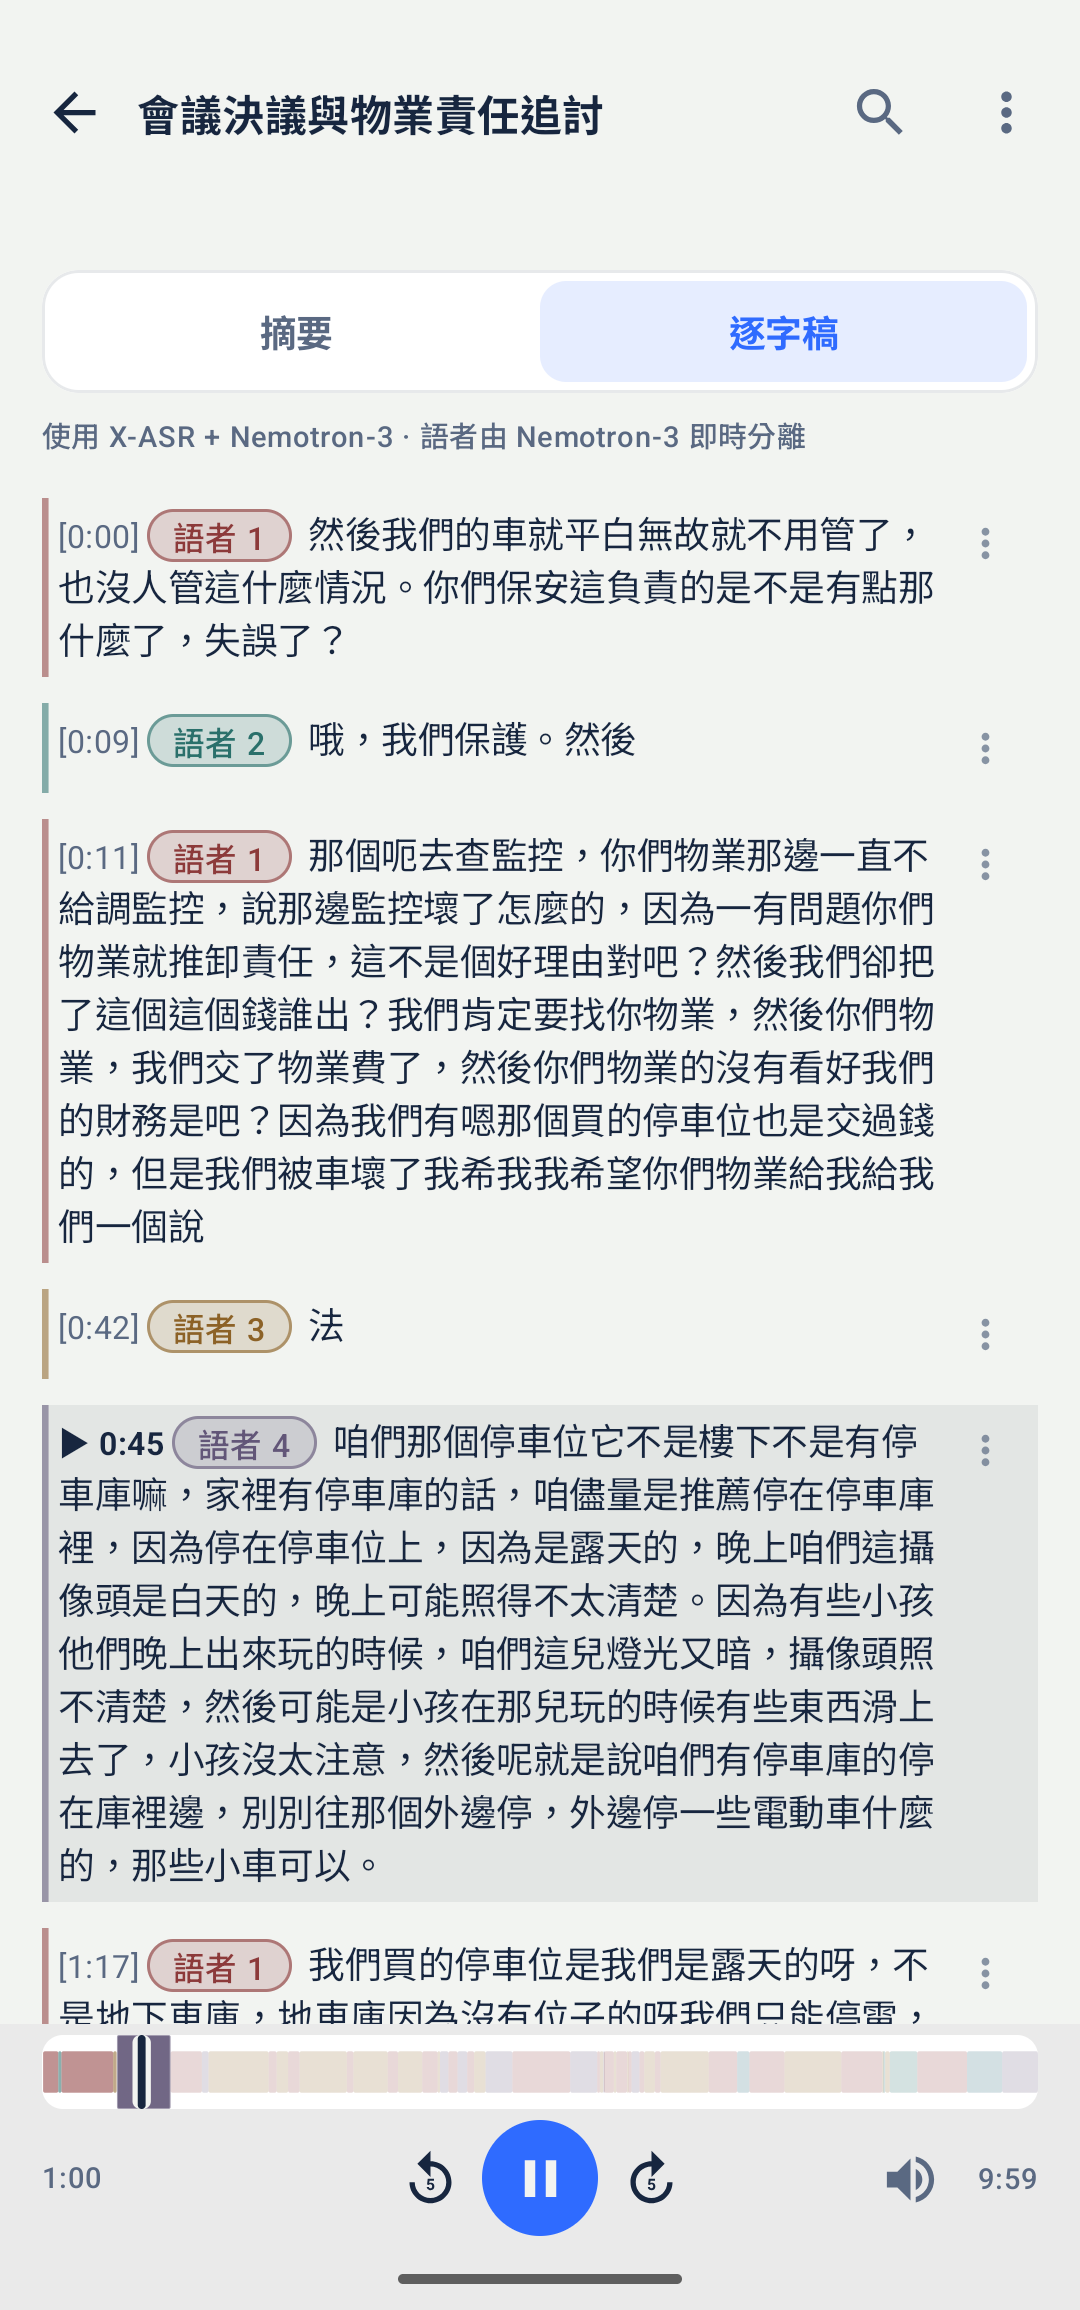
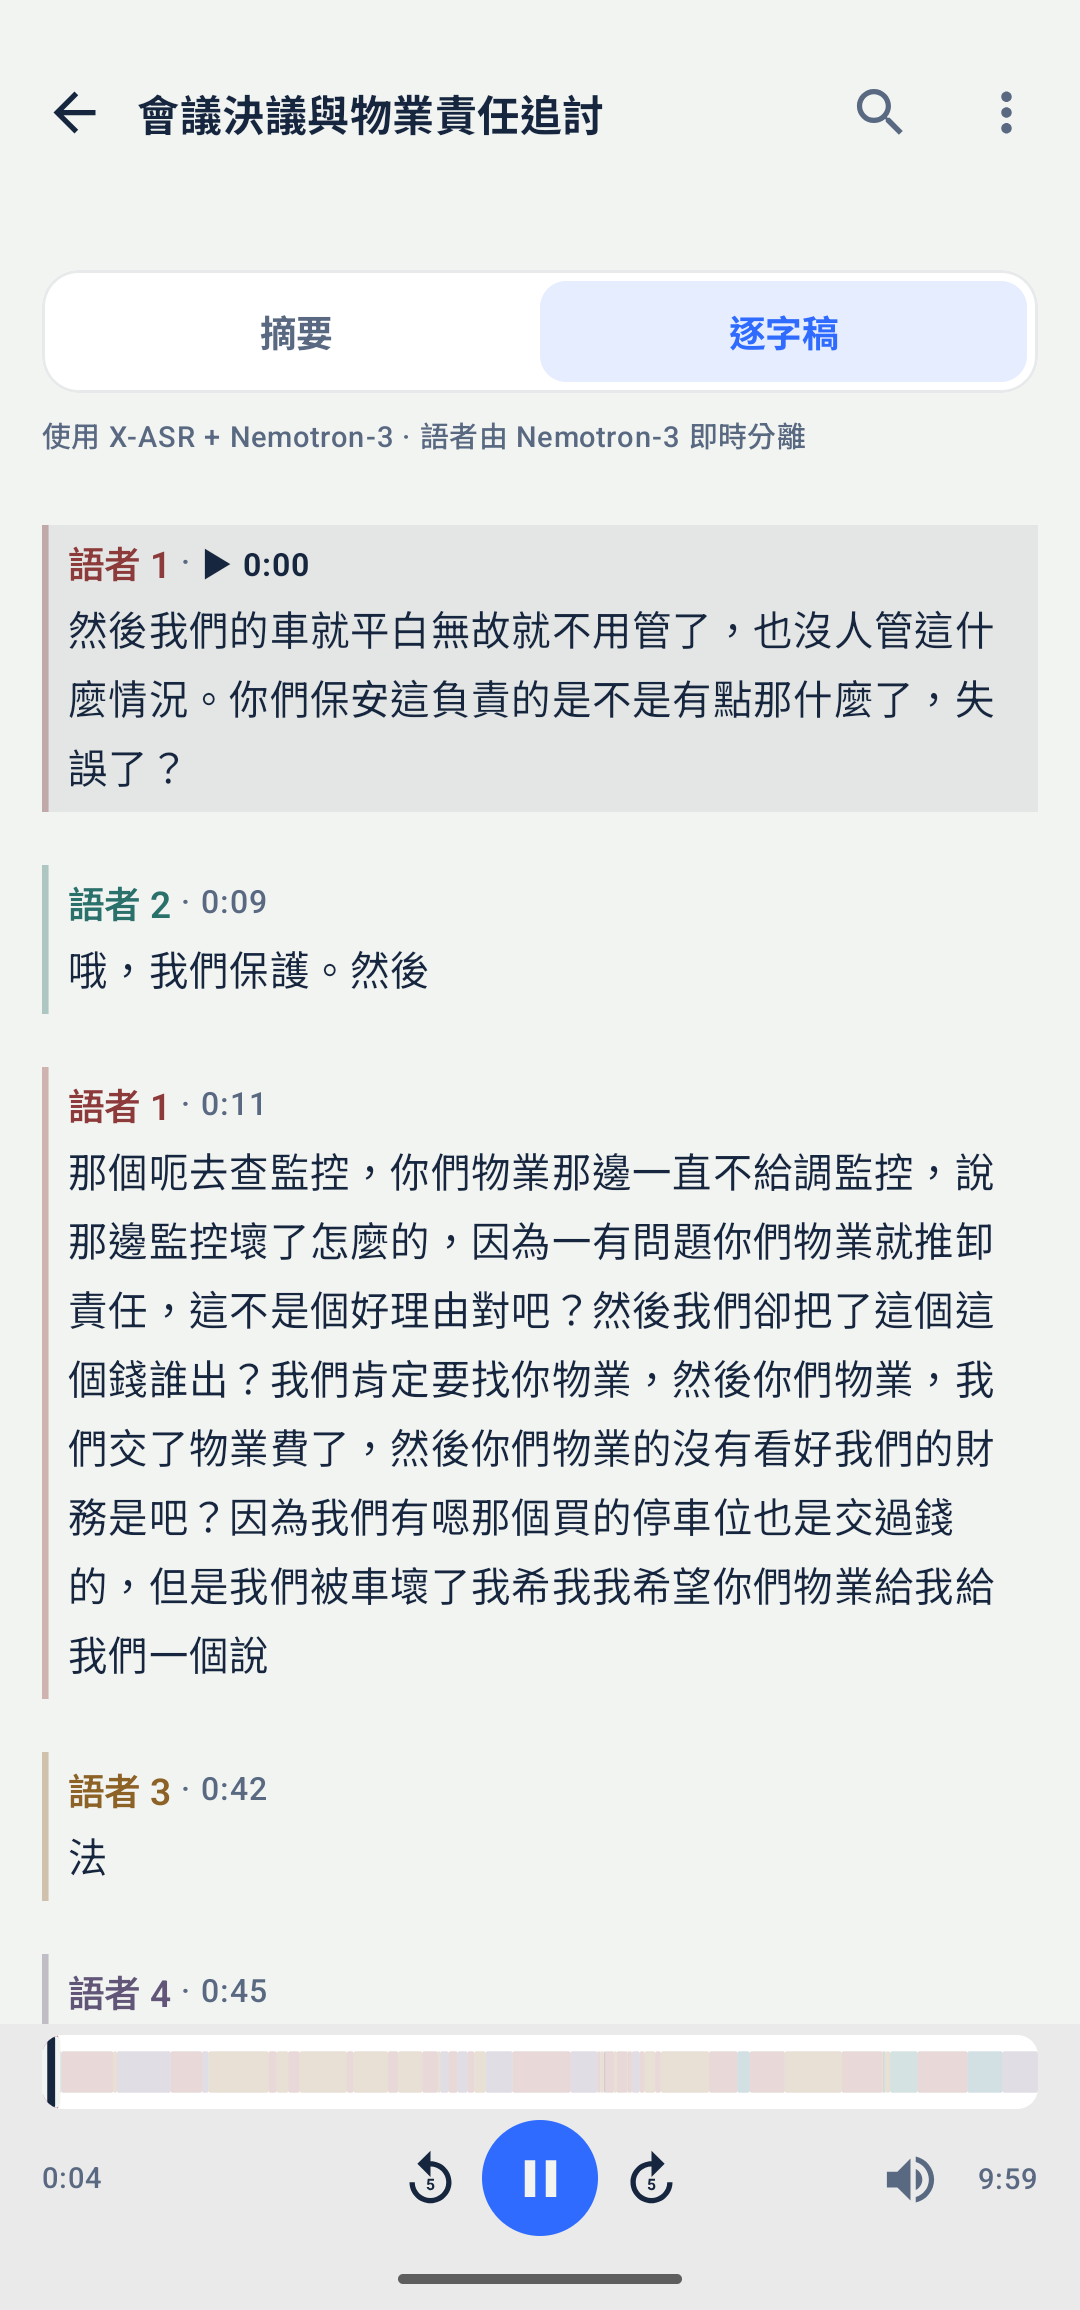
docs: reshoot transcript still and demo with the airier transcript; README: line menu is a long-press
Claude-Session: https://claude.ai/code/session_01NQVZs7ju6UZUEeaeEiKgfe

Changed region(s): [[0.0306, 0.2182, 0.9167, 0.9351]]

diff --git a/README.md b/README.md
@@ -50,7 +50,7 @@
 
 <p align="center"><img src="docs/screenshots/03-transcript.png" width="280" alt="逐字稿"></p>
 
-依語者上色的完整逐字稿，場次標題顯示在頂端，點一下即可修改。點任一句即跳到該處播放，目前播放的句子會高亮；每句的 **⋮** 可修改文字或改派語者。
+依語者上色的完整逐字稿，場次標題顯示在頂端，點一下即可修改。點任一句即跳到該處播放，目前播放的句子會高亮；長按任一句可修改文字或改派語者。
 
 ### 匯出
 
